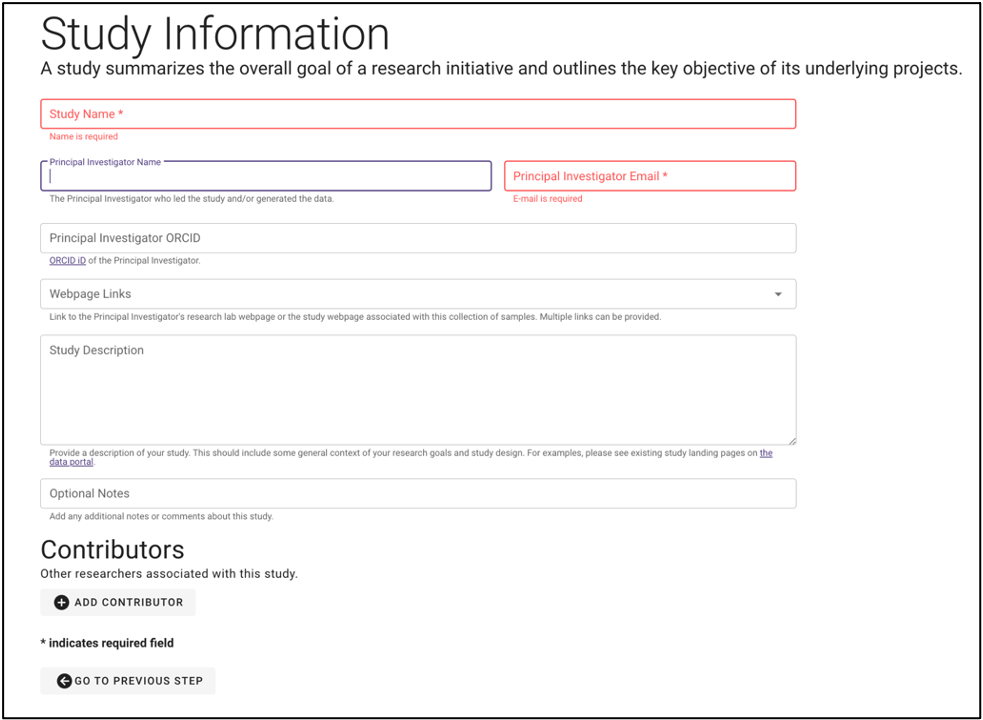
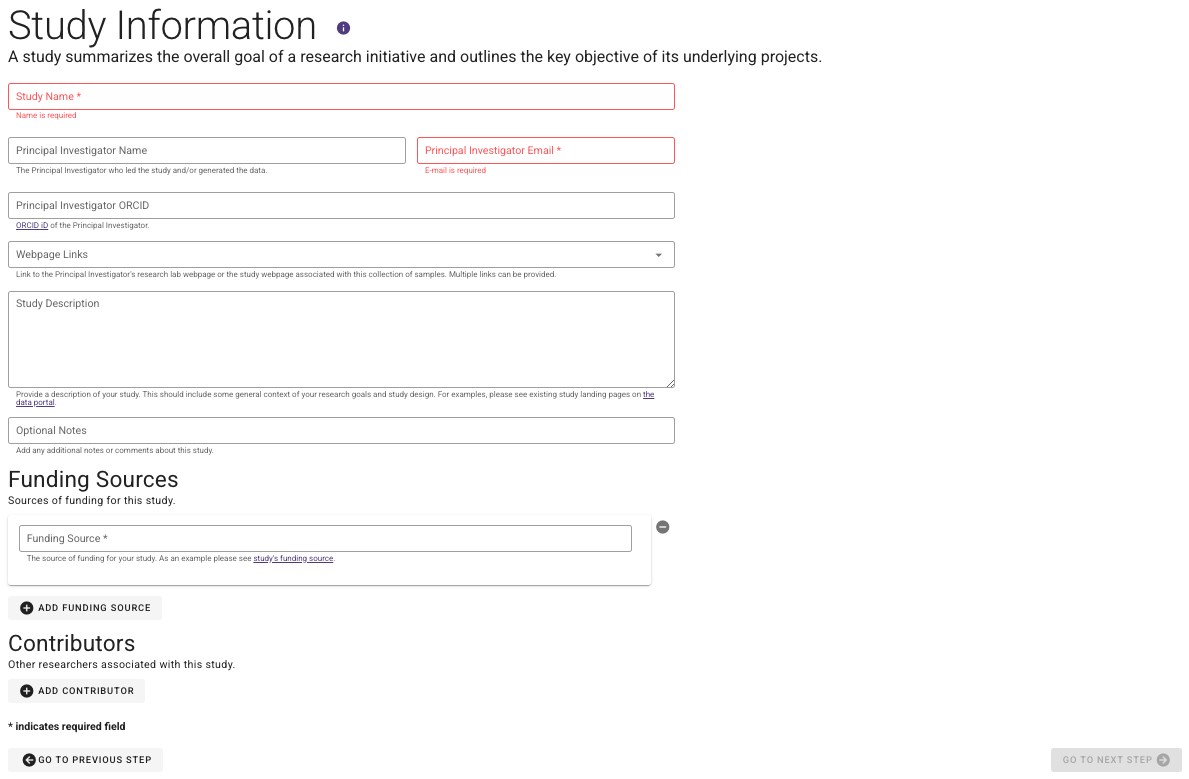
context, study, multiomics images

Changed region(s): [[0.0, 0.0, 1.0, 1.0], [0.5493, 0.6722, 0.5799, 0.7028]]

diff --git a/content/home/src/howto_guides/submit2nmdc.md b/content/home/src/howto_guides/submit2nmdc.md
@@ -52,17 +52,22 @@ Once signed in with an ORCiD, you will see an option to ‘Create New Submission
 
 [![](../_static/images/howto_guides/portal_guide/submission_context.png)](../_static/images/howto_guides/portal_guide/submision_context.png)
 
-On the Submission Context screen, users are asked whether data has already been generated for their study.  If a user selects ‘Yes’ a DOI associated with the data can be entered. For data generated at either JGI or EMSL (DOE user facilities), the specific Award DOI (e.g., 10.46936/10.25585/60001289) should be entered, along with selecting the checkbox for this option. If the data was not generated at a DOE User Facility, a valid data DOI can be entered. A data DOI is not the same as a publication DOI, and would be issued through a separate resource as a unique persistent identifier (e.g., 10.48443/e4zf-b917). 
+On the Submission Context screen, submitters are asked whether data has already been generated for their study.  If a user selects ‘Yes’ a DOI associated with the data can be entered. For data generated at either JGI or EMSL (DOE user facilities), the specific Award DOI (e.g., 10.46936/10.25585/60001289) should be entered, along with selecting the checkbox for this option. If the data was not generated at a DOE User Facility, a valid data DOI can be entered. A data DOI is not the same as a publication DOI, and would be issued through a separate resource as a unique persistent identifier (e.g., 10.48443/e4zf-b917). 
 
 [![](../_static/images/howto_guides/portal_guide/shipping_info.png)](../_static/images/howto_guides/portal_guide/shipping_info.png)
 
-If a user selects ‘No’, a user will be asked whether samples will be submitted to JGI, EMSL, or both User Facilities. Selecting EMSL will further prompt the user to provide shipping information for EMSL, along with indicating what project type is associated with an active User proposal (e.g., CSP, BERSS, BRC, FICUS, MONet, or other).  
+If a user selects ‘No’, a user will be asked whether samples will be submitted to JGI, EMSL, or both User Facilities. Selecting EMSL will further prompt the user to provide shipping information for EMSL, along with indicating what project type is associated with an active User proposal and the award DOI that is provided (e.g., CSP, BERSS, BRC, FICUS, MONet, or other).  
 
 ### Study
 
 [![](../_static/images/howto_guides/portal_guide/study_info.png)](../_static/images/howto_guides/portal_guide/study_info.png)
 
-The Study Information page requires a valid ‘Study Name’ along with a valid email address. We highly recommend the use of standardized, informative study names as described by the GOLD team (Mukherjee et. al., 2023). Further information can be provided to include relevant links to webpages and a description of the study. Last, a user can include ‘Contributors’ to acknowledge members of a research team associated with the study. This includes listing Contributor names, ORCiDs, and associating role(s) based on the CRediT (Contributor Roles Taxonomy). A Contributor can have a single or multiple roles.  
+The Study Information page requires a valid ‘Study Name’ along with a valid email address. We highly recommend the use of standardized, informative study names as described by the GOLD team (Mukherjee et. al., 2023). Further information can be provided to include relevant links to webpages and a description of the study. Studies should also include a funding source that provides the grant or award number. Last, a user can include ‘Contributors’ to acknowledge members of a research team associated with the study. 
+
+[![](../_static/images/howto_guides/portal_guide/contributors.png)](../_static/images/howto_guides/portal_guide/contributors.png)
+
+This includes listing Contributor names, ORCiDs, associating role(s) based on the CRediT (Contributor Roles Taxonomy), and their submission access permission. A Contributor can have a single or multiple roles.  
+Permission roles are granted by ORCID provided and are as follows: Viewer, will have permission to view the entire submission, and cannot make any edits; Metadata Contributor, will have permission to view the entire submission, and can edit **only** the sample metadata section of the submission; Editor, will have full view and edit access to all parts of the submission, **except** contributors; none, no permissions or view granted. The Principal Investigator will be granted the same permissions as the submittion and **can edit the entire submission**.
 
 ### Multi-omics Data
 
